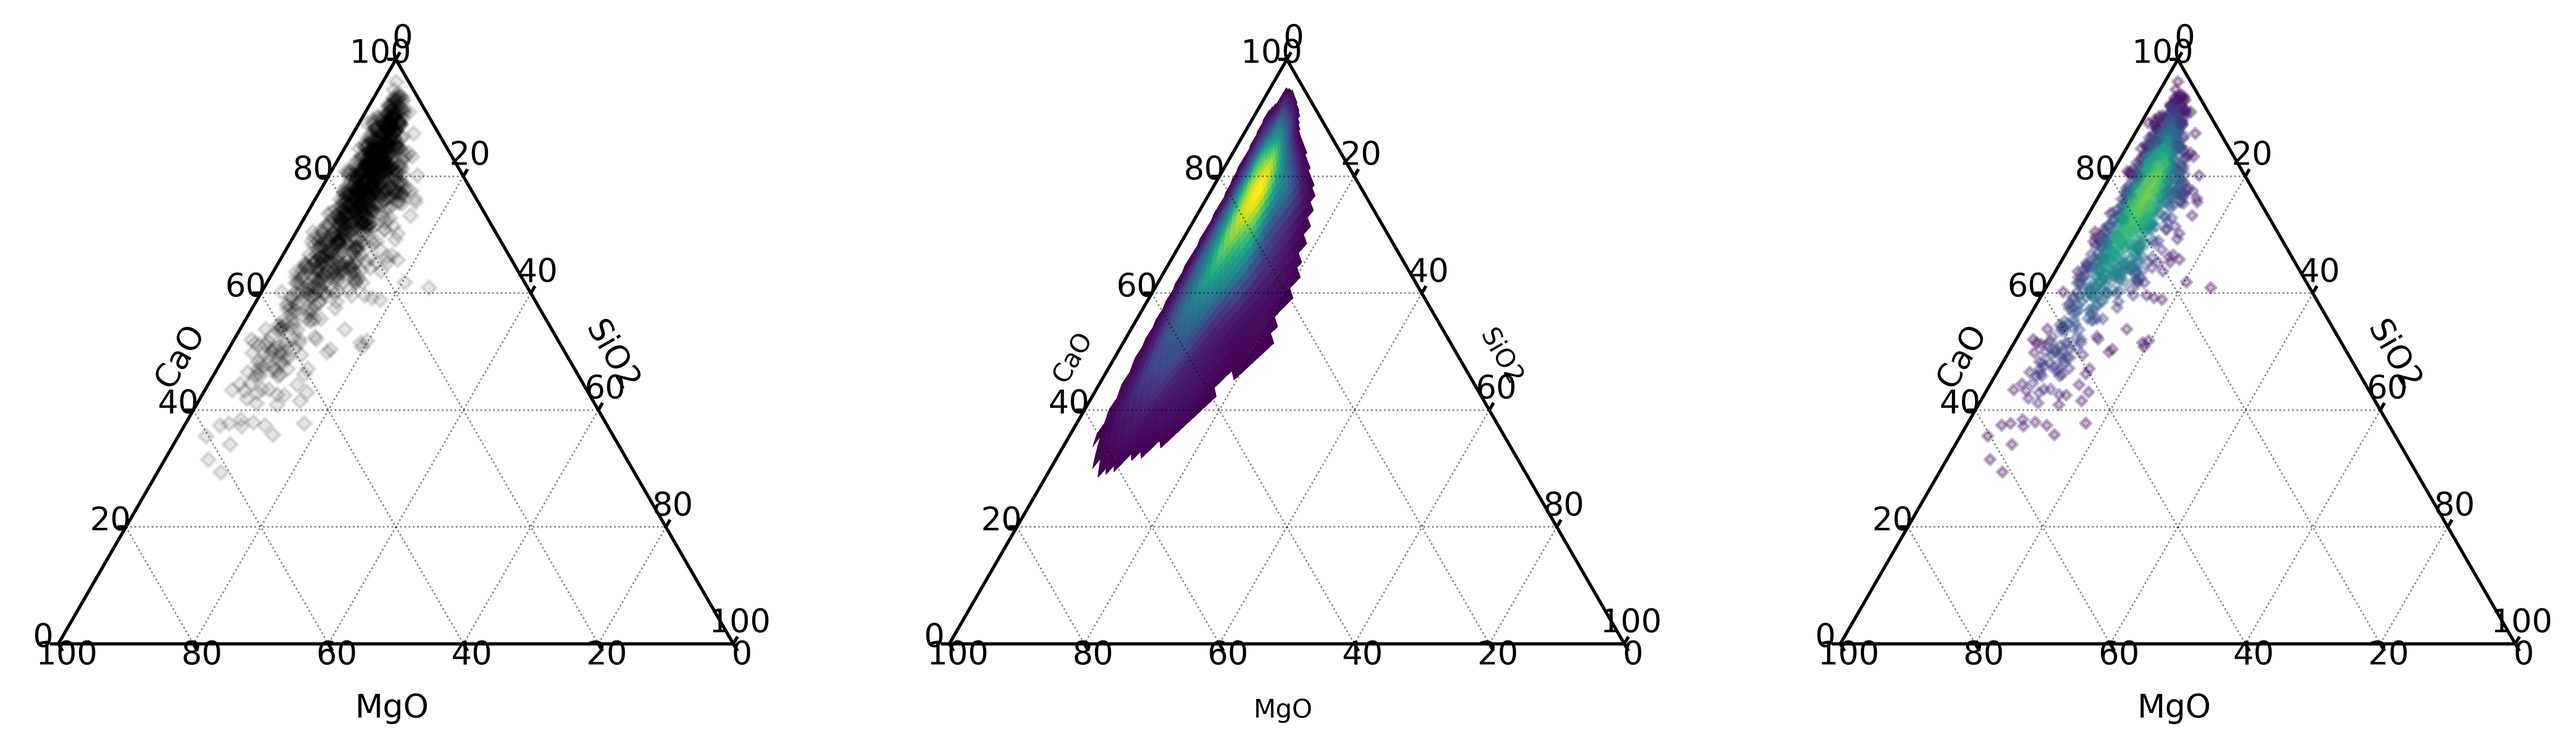
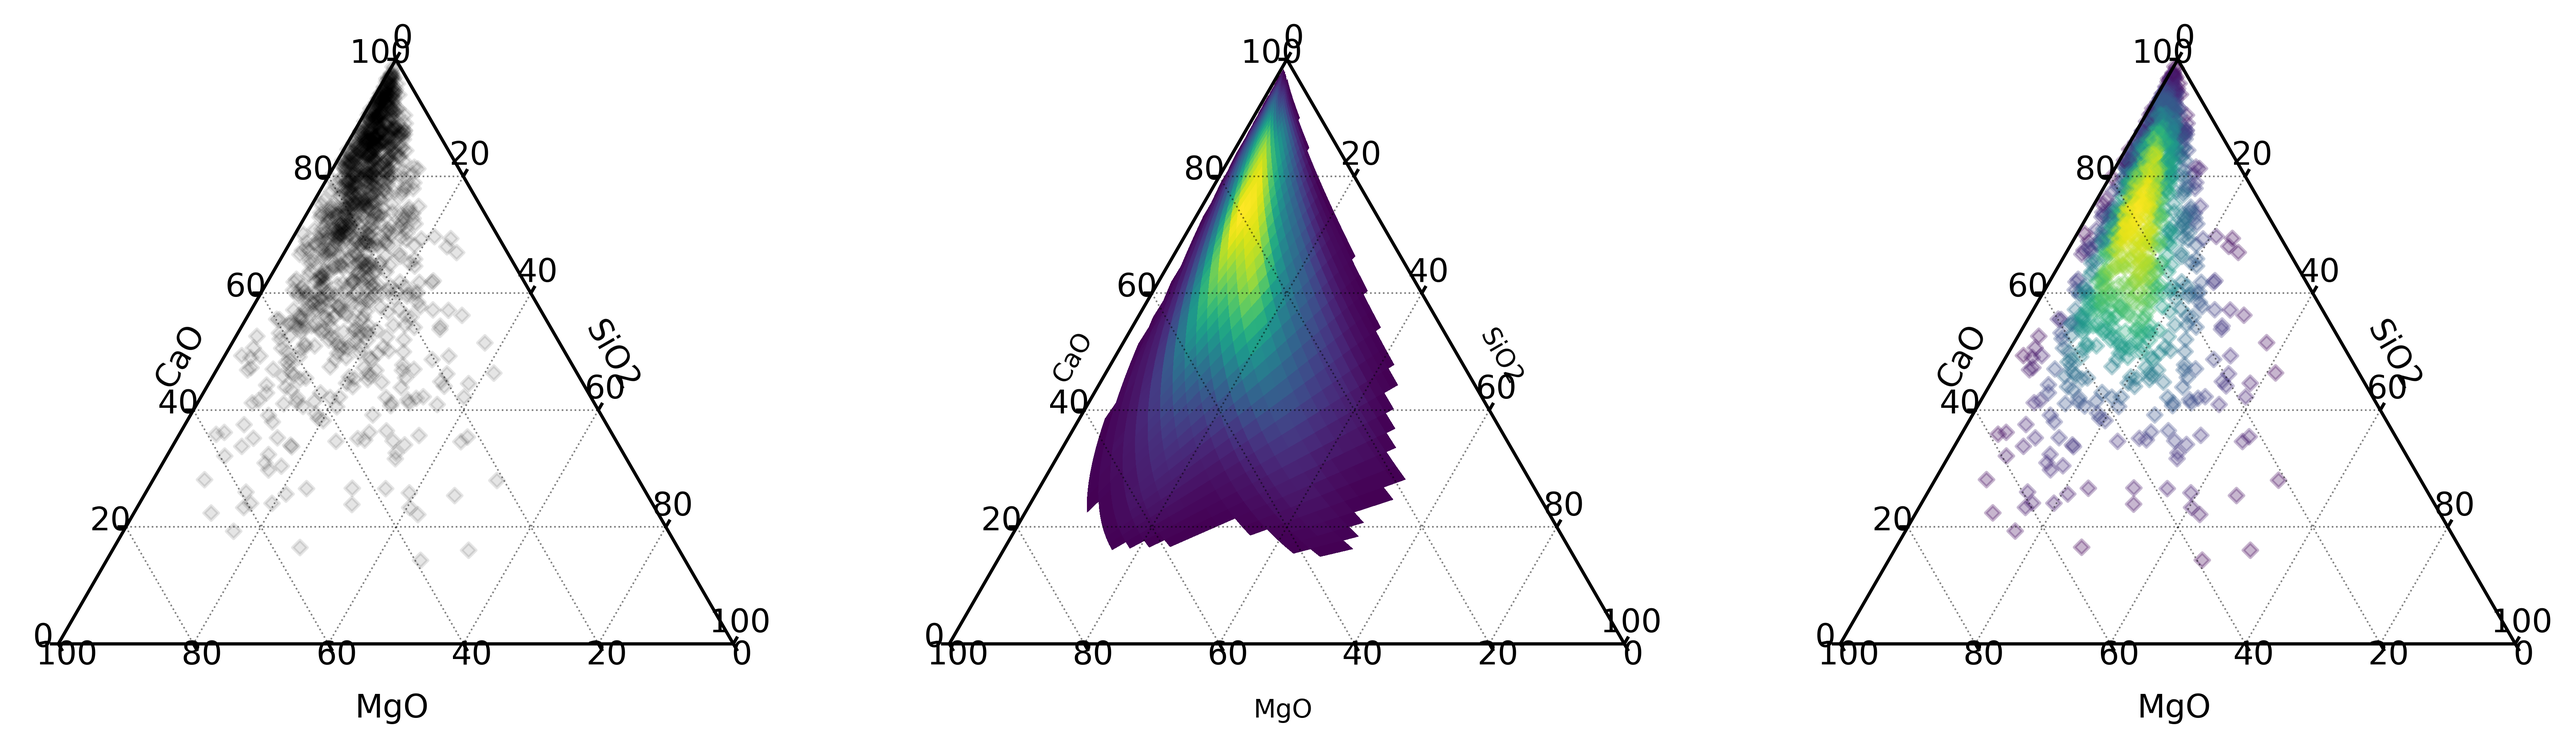
Update Heatscatter Transforms

diff --git a/pyrolite/util/distributions.py b/pyrolite/util/distributions.py
@@ -4,11 +4,35 @@ from scipy.stats.kde import gaussian_kde
 from ..util.math import flattengrid
 from ..comp.codata import ilr, close
 
+from functools import partial
+
 logging.getLogger(__name__).addHandler(logging.NullHandler())
 logger = logging.getLogger(__name__)
 
 
-def sample_kde(data, samples, renorm=False):
+def get_scaler(*fs):
+    """
+    Generate a function which will transform columns of an array
+    based on input functions (e.g. :code:`np.log` will log-transform the x values,
+    :code:`None, np.log` will log-transform the y values but not the x).
+
+    Parameters
+    ------------
+    fs
+        A series of functions to apply to subsequent axes of an array.
+    """
+
+    def scaler(arr, fs=fs):
+        A = arr.copy()
+        for ix, f in enumerate(fs):
+            if f is not None:
+                A[:, ix] = f(A[:, ix])
+        return A
+
+    return partial(scaler, fs=fs)
+
+
+def sample_kde(data, samples, renorm=False, transform=lambda x: x):
     """
     Sample a Kernel Density Estimate at points or a grid defined.
 
@@ -18,22 +42,26 @@ def sample_kde(data, samples, renorm=False):
         Source data to estimate the kernel density estimate (:code:`npoints, ndim`).
     samples : :class:`numpy.ndarray`
         Coordinates to sample the KDE estimate at  (:code:`npoints, ndim`).
+    transform
+        Transformation used prior to kernel density estimate.
 
     Returns
     ----------
     :class:`numpy.ndarray`
     """
     data = data[np.isfinite(data).all(axis=1), :]
-    K = gaussian_kde(data.T)
+    tdata = transform(data)
 
-    if isinstance(samples, list) and isinstance(samples[0], np.ndarray): # meshgrid
+    K = gaussian_kde(tdata.T)
+
+    if isinstance(samples, list) and isinstance(samples[0], np.ndarray):  # meshgrid
         zshape = samples[0].shape
-        ks = flatten_grid(ks)
+        ksamples = transform(flatten_grid(ks).T)
     else:
         zshape = samples.shape[0]
-        ks = samples.T
+        ksamples = transform(samples)
 
-    zi = K(ks)
+    zi = K(ksamples.T)
     zi = zi.reshape(zshape)
     if renorm:
         zi = zi / np.nanmax(zi)
@@ -58,10 +86,7 @@ def sample_ternary_kde(data, samples, transform=ilr):
     ----------
     :class:`numpy.ndarray`
     """
-    tfm = lambda x: transform(close(x))
-    tdata = tfm(data)
-    tsamples = tfm(samples)
-    return sample_kde(tdata, tsamples)
+    return sample_kde(data, samples, transform=lambda x: transform(close(x)))
 
 
 def lognorm_to_norm(mu, s):

diff --git a/pyrolite/plot/__init__.py b/pyrolite/plot/__init__.py
@@ -19,7 +19,8 @@ from . import tern
 from . import stem
 from . import parallel
 
-from ..util.distributions import sample_kde, sample_ternary_kde
+from ..comp.codata import close, ilr
+from ..util.distributions import sample_kde, get_scaler
 
 # pyroplot added to __all__ for docs
 __all__ = ["density", "spider", "tern", "pyroplot"]
@@ -132,7 +133,15 @@ class pyroplot(object):
 
         return ax
 
-    def heatscatter(self, components: list = None, ax=None, axlabels=True, **kwargs):
+    def heatscatter(
+        self,
+        components: list = None,
+        ax=None,
+        axlabels=True,
+        logx=False,
+        logy=False,
+        **kwargs
+    ):
         r"""
         Heatmapped scatter plots using the pyroplot API. See further parameters
         for `matplotlib.pyplot.scatter` function below.
@@ -145,6 +154,10 @@ class pyroplot(object):
             The subplot to draw on.
         axlabels : :class:`bool`, :code:`True`
             Whether to add x-y axis labels.
+        logx : :class:`bool`, `False`
+            Whether to log-transform x values before the KDE for bivariate plots.
+        logy : :class:`bool`, `False`
+            Whether to log-transform y values before the KDE for bivariate plots.
 
         {otherparams}
 
@@ -165,8 +178,13 @@ class pyroplot(object):
             raise AssertionError(msg)
 
         data, samples = obj.loc[:, components].values, obj.loc[:, components].values
-        kdefunc = [sample_kde, sample_ternary_kde][len(components) == 3]
-        zi = kdefunc(data, samples, **subkwargs(kwargs, kdefunc))
+        kdetfm = [  # log transforms
+            get_scaler([None, np.log][logx], [None, np.log][logy]),
+            lambda x: ilr(close(x)),
+        ][len(components) == 3]
+        zi = sample_kde(
+            data, samples, transform=kdetfm, **subkwargs(kwargs, sample_kde)
+        )
         ax = obj.loc[:, components].pyroplot.scatter(
             ax=ax, axlabels=axlabels, c=zi, **kwargs
         )
@@ -574,10 +592,7 @@ pyroplot.heatscatter.__doc__ = pyroplot.heatscatter.__doc__.format(
     otherparams=[
         "",
         get_additional_params(
-            pyroplot.scatter,
-            header="Other Parameters",
-            indent=8,
-            subsections=True,
+            pyroplot.scatter, header="Other Parameters", indent=8, subsections=True
         ),
     ][_add_additional_parameters]
 )

diff --git a/docs/examples/plotting/heatscatter.py b/docs/examples/plotting/heatscatter.py
@@ -3,6 +3,7 @@ import numpy as np
 import matplotlib.pyplot as plt
 from pyrolite.plot import pyroplot
 
+np.random.seed(12)
 # %% Minimal Example -------------------------------------------------------------------
 # create some example data
 from pyrolite.util.synthetic import test_df, random_cov_matrix
@@ -13,11 +14,14 @@ df = test_df(
     seed=12,
 )
 
+# %%
+
 fig, ax = plt.subplots(1, 3, sharex=True, sharey=True, figsize=(12, 4))
 
 df.loc[:, ["SiO2", "MgO"]].pyroplot.scatter(ax=ax[0], c="k", s=10, alpha=0.3)
 df.loc[:, ["SiO2", "MgO"]].pyroplot.density(ax=ax[1])
 df.loc[:, ["SiO2", "MgO"]].pyroplot.heatscatter(ax=ax[2], s=10, alpha=0.3)
+
 # %% Save Figure
 from pyrolite.util.plot import save_figure
 
@@ -30,6 +34,6 @@ fig, ax = plt.subplots(1, 3, sharex=True, sharey=True, figsize=(14, 5))
 
 df.loc[:, ["SiO2", "CaO", "MgO"]].pyroplot.scatter(ax=ax[0], c="k", s=10, alpha=0.1)
 df.loc[:, ["SiO2", "CaO", "MgO"]].pyroplot.density(ax=ax[1], bins=100)
-df.loc[:, ["SiO2", "CaO", "MgO"]].pyroplot.heatscatter(ax=ax[2], s=5, alpha=0.3)
+df.loc[:, ["SiO2", "CaO", "MgO"]].pyroplot.heatscatter(ax=ax[2], s=10, alpha=0.3,renorm=True)
 # %% Save Figure
 save_figure(fig, save_at="../../source/_static", name="heatscatter_ternary")

diff --git a/pyrolite/plot/density.py b/pyrolite/plot/density.py
@@ -230,7 +230,6 @@ def density(
                     logger.debug(
                         "Updating `vmin` to percentile equiv: {:.2f}".format(vmin)
                     )
-                # TODO: update xi, yi to bin edges.
                 if logx:
                     xi = np.exp(xi)
                     xe = np.exp(xe)
